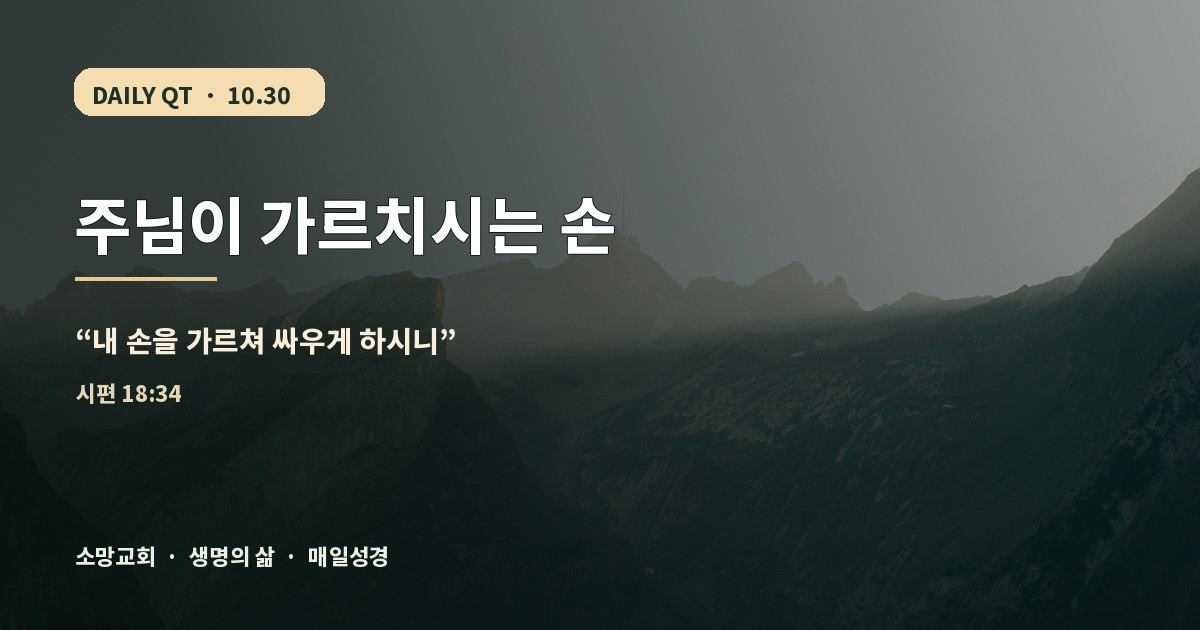
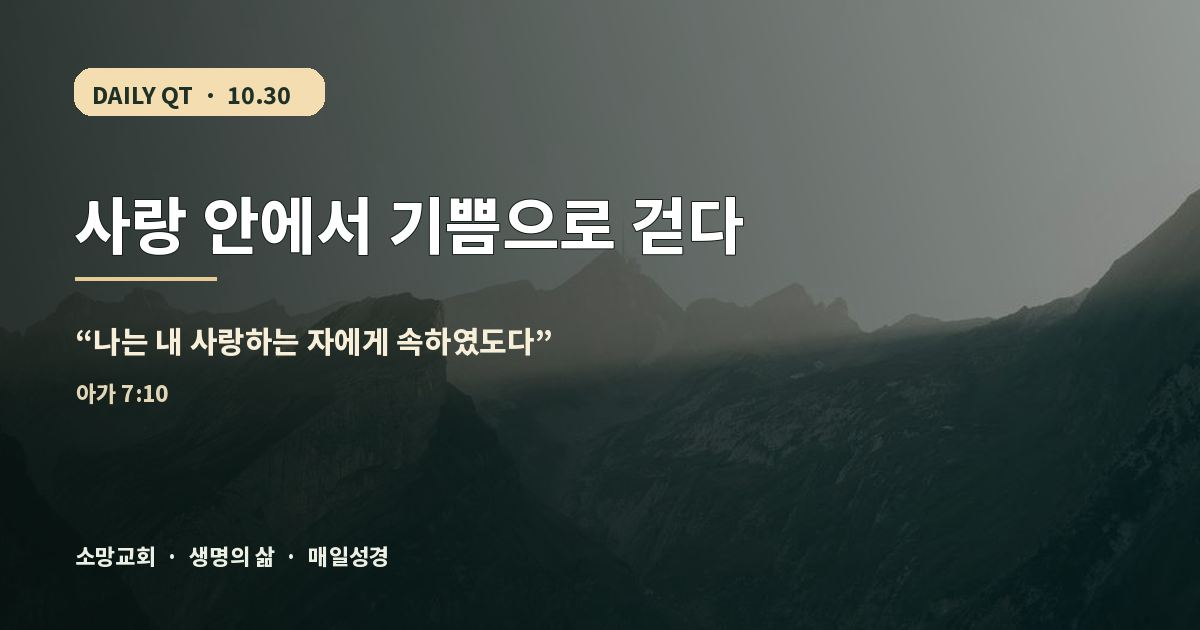
Bible QT 2026-10-30

Changed region(s): [[0.0617, 0.3016, 0.6167, 0.6333], [0.4933, 0.2714, 1.0, 0.573], [0.0617, 0.6032, 0.1542, 0.6635]]

diff --git a/archive/index.html b/archive/index.html
@@ -1,1 +1,1 @@
-<!doctype html><html lang="ko"><head><meta charset="utf-8"><meta name="viewport" content="width=device-width,initial-scale=1"><title>매일매일 큐티 아카이브</title><link rel="stylesheet" href="../assets/site.css"></head><body><main><header class="hero"><div class="hero-inner"><p class="eyebrow">DAILY DEVOTIONAL ARCHIVE</p><h1>지난 큐티</h1><p class="intro">날짜별로 보관된 매일매일 큐티를 다시 읽습니다.</p></div></header><div class="content"><article class="letter"><h2>2026년 10월</h2><p><a class="bible-link" href="2026-10-30/">2026년 10월 30일 금요일 — 말씀 앞에 겸손히, 사랑 안에 기쁘게</a></p><p><a class="bible-link" href="2026-10-29/">2026년 10월 29일 목요일 — 주님이 밝히시는 등불</a></p><p><a class="bible-link" href="2026-10-28/">2026년 10월 28일 수요일 — 나의 힘이신 여호와</a></p><p><a class="bible-link" href="2026-10-27/">2026년 10월 27일 화요일 — 주님의 얼굴로 만족하는 삶</a></p><p><a class="bible-link" href="2026-10-26/">2026년 10월 26일 월요일 — 주님께 피할 때, 생명의 길</a></p><p><a class="bible-link" href="2026-10-24/">2026년 10월 24일 토요일 — 기다림 속에 자라는 사랑</a></p><p><a class="bible-link" href="2026-10-23/">2026년 10월 23일 금요일 — 안개 같은 인생, 주의 뜻을 따르다</a></p><p><a class="bible-link" href="2026-10-22/">2026년 10월 22일 목요일 — 은혜를 기억하고 주께 가까이</a></p><p><a class="bible-link" href="2026-10-21/">2026년 10월 21일 수요일 — 화평의 지혜, 기쁨의 헌신</a></p><p><a class="bible-link" href="2026-10-20/">2026년 10월 20일 화요일 — 말씀으로 세우고, 말로 살리다</a></p><p><a class="bible-link" href="2026-10-19/">2026년 10월 19일 월요일 — 믿음은 삶으로 드러납니다</a></p><p><a class="bible-link" href="2026-10-17/">2026년 10월 17일 토요일 — 듣고 행하는 믿음</a></p><p><a class="bible-link" href="2026-10-16/">2026년 10월 16일 금요일 — 때가 되면 속히 이루시는 주님</a></p><p><a class="bible-link" href="2026-10-15/">2026년 10월 15일 목요일 — 일어나 빛을 발하라</a></p><p><a class="bible-link" href="2026-10-14/">2026년 10월 14일 수요일 — 누가 우리의 왕인가</a></p><p><a class="bible-link" href="2026-10-13/">2026년 10월 13일 화요일 — 정의와 평강의 길</a></p><p><a class="bible-link" href="2026-10-12/">2026년 10월 12일 월요일 — 예배하는 세대를 위하여</a></p><p><a class="bible-link" href="2026-10-10/">2026년 10월 10일 토요일 — 심판의 자리에서 예배의 자리로</a></p><p><a class="bible-link" href="2026-10-09/">2026년 10월 9일 금요일 — 물 댄 동산 같겠고</a></p><p><a class="bible-link" href="2026-10-08/">2026년 10월 8일 목요일 — 겸손한 자에게 임하는 평강</a></p><p><a class="bible-link" href="2026-10-07/">2026년 10월 7일 수요일 — 오직 주를 의뢰하는 자</a></p><p><a class="bible-link" href="2026-10-06/">2026년 10월 6일 화요일 — 만민이 기도하는 집</a></p><p><a class="bible-link" href="2026-10-05/">2026년 10월 5일 월요일 — 여호와께서 함께하지 않으시니</a></p><p><a class="bible-link" href="2026-10-03/">2026년 10월 3일 토요일 — 어디로 가든지 이기게 하시니라</a></p><p><a class="bible-link" href="2026-10-02/">2026년 10월 2일 금요일 — 값없이 와서 먹고 마시라</a></p><p><a class="bible-link" href="2026-10-01/">2026년 10월 1일 목요일 — 너를 칠 무기가 쓸모없을 것이라</a></p><h2>2026년 9월</h2><p><a class="bible-link" href="2026-09-30/">2026년 9월 30일 수요일 — 화평의 언약은 흔들리지 아니하리라</a></p><p><a class="bible-link" href="2026-09-29/">2026년 9월 29일 화요일 — 그가 찔림은 우리의 허물 때문이요</a></p><p><a class="bible-link" href="2026-09-28/">2026년 9월 28일 월요일 — 그 크신 인자하심을 따라</a></p><p><a class="bible-link" href="2026-09-26/">2026년 9월 26일 토요일 — 여호와는 우리와 함께하시느니라</a></p><p><a class="bible-link" href="2026-09-25/">2026년 9월 25일 금요일 — 네 하나님이 통치하신다</a></p><p><a class="bible-link" href="2026-09-24/">2026년 9월 24일 목요일 — 사람을 두려워하지 않는 온전한 신뢰</a></p><p><a class="bible-link" href="2026-09-23/">2026년 9월 23일 수요일 — 광야를 에덴 같게 하시는 위로</a></p><p><a class="bible-link" href="2026-09-22/">2026년 9월 22일 화요일 — 아침마다 깨우치시는 은혜의 음성</a></p><p><a class="bible-link" href="2026-09-21/">2026년 9월 21일 월요일 — 믿음의 눈으로 취하는 약속의 땅</a></p><p><a class="bible-link" href="2026-09-19/">2026년 9월 19일 토요일 — 담대함으로 서는 믿음의 공동체</a></p><p><a class="bible-link" href="2026-09-18/">2026년 9월 18일 금요일 — 손바닥에 새기신 영원한 사랑</a></p><p><a class="bible-link" href="2026-09-17/">2026년 9월 17일 목요일 — 여호와께서 함께하시니 점점 강성하여 가니라</a></p><p><a class="bible-link" href="2026-09-16/">2026년 9월 16일 수요일 — 마땅히 행할 길로 인도하시는 하나님</a></p><p><a class="bible-link" href="2026-09-15/">2026년 9월 15일 화요일 — 고난의 풀무에서 택하신 은혜</a></p><p><a class="bible-link" href="2026-09-14/">2026년 9월 14일 월요일 — 믿음의 간구와 온유한 순종</a></p><p><a class="bible-link" href="2026-09-11/">2026년 9월 11일 금요일 — 주의 법을 사랑하는 자의 큰 평안</a></p><p><a class="bible-link" href="2026-09-10/">2026년 9월 10일 목요일 — 가까이 계시는 주님, 진리의 말씀</a></p><p><a class="bible-link" href="2026-09-09/">2026년 9월 9일 수요일 — 순금보다 더 사랑하는 말씀의 길</a></p><p><a class="bible-link" href="2026-09-08/">2026년 9월 8일 화요일 — 내 발의 등이요 내 길의 빛이 되는 말씀</a></p><p><a class="bible-link" href="2026-09-07/">2026년 9월 7일 월요일 — 말씀의 맛을 다시 기억하는 아침</a></p><p><a class="bible-link" href="2026-09-05/">2026년 9월 5일 토요일 — 고난으로 배운 주의 율례, 구름 기둥 행진과 순종</a></p><p><a class="bible-link" href="2026-09-04/">2026년 9월 4일 금요일 — 구속의 은혜, 고난을 이기는 말씀과 믿음의 유산</a></p><p><a class="bible-link" href="2026-09-03/">2026년 9월 3일 목요일 — 거룩한 구별, 수치에서 건지시는 말씀</a></p><p><a class="bible-link" href="2026-09-01/">2026년 9월 1일 화요일 — 광야의 새 길, 복되고 정결한 삶</a></p><h2>2026년 8월</h2><p><a class="bible-link" href="2026-08-31/">2026년 8월 31일 월요일 — 여호와 삼마, 나팔 소리를 청종하라</a></p><p><a class="bible-link" href="2026-08-29/">2026년 8월 29일 토요일 — 구름 기둥의 인도, 여호와의 열심</a></p><p><a class="bible-link" href="2026-08-28/">2026년 8월 28일 금요일 — 공평과 포용, 하나님의 명예를 구함</a></p><p><a class="bible-link" href="2026-08-27/">2026년 8월 27일 목요일 — 침묵으로 지키는 믿음, 생수의 강</a></p><p><a class="bible-link" href="2026-08-26/">2026년 8월 26일 수요일 — 정결한 헌신, 거룩한 대로의 기쁨</a></p><p><a class="bible-link" href="2026-08-25/">2026년 8월 25일 화요일 — 하나님께 더 가까이, 말씀하시는 임재</a></p><p><a class="bible-link" href="2026-08-24/">2026년 8월 24일 월요일 — 정직한 삶, 아름다운 왕의 통치</a></p><p><a class="bible-link" href="2026-08-22/">2026년 8월 22일 토요일 — 거룩한 헌신, 물러섬 없는 은혜</a></p><p><a class="bible-link" href="2026-08-21/">2026년 8월 21일 금요일 — 지명하여 부르신 은혜의 바른길</a></p><p><a class="bible-link" href="2026-08-20/">2026년 8월 20일 목요일 — 정결한 제단에서 주만 의지하리</a></p><p><a class="bible-link" href="2026-08-19/">2026년 8월 19일 수요일 — 겸손히 머무는 거룩한 영광</a></p><p><a class="bible-link" href="2026-08-18/">2026년 8월 18일 화요일 — 열심을 넘어 진심으로</a></p><p><a class="bible-link" href="2026-08-17/">2026년 8월 17일 월요일 — 공의의 줄과 정의의 추</a></p><p><a class="bible-link" href="2026-08-16/">2026년 8월 16일 일요일 — 영화로운 면류관</a></p><p><a class="bible-link" href="2026-08-15/">2026년 8월 15일 토요일 — 새로운 포도원과 회복의 소망</a></p><p><a class="bible-link" href="2026-08-14/">2026년 8월 14일 금요일 — 소망의 찬양과 확신의 기도</a></p><p><a class="bible-link" href="2026-08-13/">2026년 8월 13일 목요일 — 하나님이 예비하신 진실과 회복의 잔치</a></p><p><a class="bible-link" href="../">최신 QT로 돌아가기</a></p></article></div></main></body></html>
+<!doctype html><html lang="ko"><head><meta charset="utf-8"><meta name="viewport" content="width=device-width,initial-scale=1"><title>매일매일 큐티 아카이브</title><link rel="stylesheet" href="../assets/site.css"></head><body><main><header class="hero"><div class="hero-inner"><p class="eyebrow">DAILY DEVOTIONAL ARCHIVE</p><h1>지난 큐티</h1><p class="intro">날짜별로 보관된 매일매일 큐티를 다시 읽습니다.</p></div></header><div class="content"><article class="letter"><h2>2026년 10월</h2><p><a class="bible-link" href="2026-10-30/">2026년 10월 30일 금요일 — 사랑 안에서 기쁨으로 걷다</a></p><p><a class="bible-link" href="2026-10-29/">2026년 10월 29일 목요일 — 주님이 밝히시는 등불</a></p><p><a class="bible-link" href="2026-10-28/">2026년 10월 28일 수요일 — 나의 힘이신 여호와</a></p><p><a class="bible-link" href="2026-10-27/">2026년 10월 27일 화요일 — 주님의 얼굴로 만족하는 삶</a></p><p><a class="bible-link" href="2026-10-26/">2026년 10월 26일 월요일 — 주님께 피할 때, 생명의 길</a></p><p><a class="bible-link" href="2026-10-24/">2026년 10월 24일 토요일 — 기다림 속에 자라는 사랑</a></p><p><a class="bible-link" href="2026-10-23/">2026년 10월 23일 금요일 — 안개 같은 인생, 주의 뜻을 따르다</a></p><p><a class="bible-link" href="2026-10-22/">2026년 10월 22일 목요일 — 은혜를 기억하고 주께 가까이</a></p><p><a class="bible-link" href="2026-10-21/">2026년 10월 21일 수요일 — 화평의 지혜, 기쁨의 헌신</a></p><p><a class="bible-link" href="2026-10-20/">2026년 10월 20일 화요일 — 말씀으로 세우고, 말로 살리다</a></p><p><a class="bible-link" href="2026-10-19/">2026년 10월 19일 월요일 — 믿음은 삶으로 드러납니다</a></p><p><a class="bible-link" href="2026-10-17/">2026년 10월 17일 토요일 — 듣고 행하는 믿음</a></p><p><a class="bible-link" href="2026-10-16/">2026년 10월 16일 금요일 — 때가 되면 속히 이루시는 주님</a></p><p><a class="bible-link" href="2026-10-15/">2026년 10월 15일 목요일 — 일어나 빛을 발하라</a></p><p><a class="bible-link" href="2026-10-14/">2026년 10월 14일 수요일 — 누가 우리의 왕인가</a></p><p><a class="bible-link" href="2026-10-13/">2026년 10월 13일 화요일 — 정의와 평강의 길</a></p><p><a class="bible-link" href="2026-10-12/">2026년 10월 12일 월요일 — 예배하는 세대를 위하여</a></p><p><a class="bible-link" href="2026-10-10/">2026년 10월 10일 토요일 — 심판의 자리에서 예배의 자리로</a></p><p><a class="bible-link" href="2026-10-09/">2026년 10월 9일 금요일 — 물 댄 동산 같겠고</a></p><p><a class="bible-link" href="2026-10-08/">2026년 10월 8일 목요일 — 겸손한 자에게 임하는 평강</a></p><p><a class="bible-link" href="2026-10-07/">2026년 10월 7일 수요일 — 오직 주를 의뢰하는 자</a></p><p><a class="bible-link" href="2026-10-06/">2026년 10월 6일 화요일 — 만민이 기도하는 집</a></p><p><a class="bible-link" href="2026-10-05/">2026년 10월 5일 월요일 — 여호와께서 함께하지 않으시니</a></p><p><a class="bible-link" href="2026-10-03/">2026년 10월 3일 토요일 — 어디로 가든지 이기게 하시니라</a></p><p><a class="bible-link" href="2026-10-02/">2026년 10월 2일 금요일 — 값없이 와서 먹고 마시라</a></p><p><a class="bible-link" href="2026-10-01/">2026년 10월 1일 목요일 — 너를 칠 무기가 쓸모없을 것이라</a></p><h2>2026년 9월</h2><p><a class="bible-link" href="2026-09-30/">2026년 9월 30일 수요일 — 화평의 언약은 흔들리지 아니하리라</a></p><p><a class="bible-link" href="2026-09-29/">2026년 9월 29일 화요일 — 그가 찔림은 우리의 허물 때문이요</a></p><p><a class="bible-link" href="2026-09-28/">2026년 9월 28일 월요일 — 그 크신 인자하심을 따라</a></p><p><a class="bible-link" href="2026-09-26/">2026년 9월 26일 토요일 — 여호와는 우리와 함께하시느니라</a></p><p><a class="bible-link" href="2026-09-25/">2026년 9월 25일 금요일 — 네 하나님이 통치하신다</a></p><p><a class="bible-link" href="2026-09-24/">2026년 9월 24일 목요일 — 사람을 두려워하지 않는 온전한 신뢰</a></p><p><a class="bible-link" href="2026-09-23/">2026년 9월 23일 수요일 — 광야를 에덴 같게 하시는 위로</a></p><p><a class="bible-link" href="2026-09-22/">2026년 9월 22일 화요일 — 아침마다 깨우치시는 은혜의 음성</a></p><p><a class="bible-link" href="2026-09-21/">2026년 9월 21일 월요일 — 믿음의 눈으로 취하는 약속의 땅</a></p><p><a class="bible-link" href="2026-09-19/">2026년 9월 19일 토요일 — 담대함으로 서는 믿음의 공동체</a></p><p><a class="bible-link" href="2026-09-18/">2026년 9월 18일 금요일 — 손바닥에 새기신 영원한 사랑</a></p><p><a class="bible-link" href="2026-09-17/">2026년 9월 17일 목요일 — 여호와께서 함께하시니 점점 강성하여 가니라</a></p><p><a class="bible-link" href="2026-09-16/">2026년 9월 16일 수요일 — 마땅히 행할 길로 인도하시는 하나님</a></p><p><a class="bible-link" href="2026-09-15/">2026년 9월 15일 화요일 — 고난의 풀무에서 택하신 은혜</a></p><p><a class="bible-link" href="2026-09-14/">2026년 9월 14일 월요일 — 믿음의 간구와 온유한 순종</a></p><p><a class="bible-link" href="2026-09-11/">2026년 9월 11일 금요일 — 주의 법을 사랑하는 자의 큰 평안</a></p><p><a class="bible-link" href="2026-09-10/">2026년 9월 10일 목요일 — 가까이 계시는 주님, 진리의 말씀</a></p><p><a class="bible-link" href="2026-09-09/">2026년 9월 9일 수요일 — 순금보다 더 사랑하는 말씀의 길</a></p><p><a class="bible-link" href="2026-09-08/">2026년 9월 8일 화요일 — 내 발의 등이요 내 길의 빛이 되는 말씀</a></p><p><a class="bible-link" href="2026-09-07/">2026년 9월 7일 월요일 — 말씀의 맛을 다시 기억하는 아침</a></p><p><a class="bible-link" href="2026-09-05/">2026년 9월 5일 토요일 — 고난으로 배운 주의 율례, 구름 기둥 행진과 순종</a></p><p><a class="bible-link" href="2026-09-04/">2026년 9월 4일 금요일 — 구속의 은혜, 고난을 이기는 말씀과 믿음의 유산</a></p><p><a class="bible-link" href="2026-09-03/">2026년 9월 3일 목요일 — 거룩한 구별, 수치에서 건지시는 말씀</a></p><p><a class="bible-link" href="2026-09-01/">2026년 9월 1일 화요일 — 광야의 새 길, 복되고 정결한 삶</a></p><h2>2026년 8월</h2><p><a class="bible-link" href="2026-08-31/">2026년 8월 31일 월요일 — 여호와 삼마, 나팔 소리를 청종하라</a></p><p><a class="bible-link" href="2026-08-29/">2026년 8월 29일 토요일 — 구름 기둥의 인도, 여호와의 열심</a></p><p><a class="bible-link" href="2026-08-28/">2026년 8월 28일 금요일 — 공평과 포용, 하나님의 명예를 구함</a></p><p><a class="bible-link" href="2026-08-27/">2026년 8월 27일 목요일 — 침묵으로 지키는 믿음, 생수의 강</a></p><p><a class="bible-link" href="2026-08-26/">2026년 8월 26일 수요일 — 정결한 헌신, 거룩한 대로의 기쁨</a></p><p><a class="bible-link" href="2026-08-25/">2026년 8월 25일 화요일 — 하나님께 더 가까이, 말씀하시는 임재</a></p><p><a class="bible-link" href="2026-08-24/">2026년 8월 24일 월요일 — 정직한 삶, 아름다운 왕의 통치</a></p><p><a class="bible-link" href="2026-08-22/">2026년 8월 22일 토요일 — 거룩한 헌신, 물러섬 없는 은혜</a></p><p><a class="bible-link" href="2026-08-21/">2026년 8월 21일 금요일 — 지명하여 부르신 은혜의 바른길</a></p><p><a class="bible-link" href="2026-08-20/">2026년 8월 20일 목요일 — 정결한 제단에서 주만 의지하리</a></p><p><a class="bible-link" href="2026-08-19/">2026년 8월 19일 수요일 — 겸손히 머무는 거룩한 영광</a></p><p><a class="bible-link" href="2026-08-18/">2026년 8월 18일 화요일 — 열심을 넘어 진심으로</a></p><p><a class="bible-link" href="2026-08-17/">2026년 8월 17일 월요일 — 공의의 줄과 정의의 추</a></p><p><a class="bible-link" href="2026-08-16/">2026년 8월 16일 일요일 — 영화로운 면류관</a></p><p><a class="bible-link" href="2026-08-15/">2026년 8월 15일 토요일 — 새로운 포도원과 회복의 소망</a></p><p><a class="bible-link" href="2026-08-14/">2026년 8월 14일 금요일 — 소망의 찬양과 확신의 기도</a></p><p><a class="bible-link" href="2026-08-13/">2026년 8월 13일 목요일 — 하나님이 예비하신 진실과 회복의 잔치</a></p><p><a class="bible-link" href="../">최신 QT로 돌아가기</a></p></article></div></main></body></html>

diff --git a/archive/2026-10-30/kakao-v1.html b/archive/2026-10-30/kakao-v1.html
@@ -2,13 +2,13 @@
 <html lang="ko"><head><meta charset="utf-8"><meta name="viewport" content="width=device-width,initial-scale=1"><meta name="theme-color" content="#17382a">
 <title>매일매일 큐티｜2026년 10월 30일 금요일</title><meta name="description" content="말씀 앞에 겸손히 머물고, 사랑 안에서 기쁨으로 함께 걷습니다.">
 <link rel="canonical" href="https://vidavida1970.github.io/DailyQT/archive/2026-10-30/kakao-v1.html"><link rel="image_src" href="https://vidavida1970.github.io/DailyQT/archive/2026-10-30/assets/thumbnail-v1.jpg"><meta name="thumbnail" content="https://vidavida1970.github.io/DailyQT/archive/2026-10-30/assets/thumbnail-v1.jpg">
-<meta property="og:title" content="매일매일 큐티｜말씀 앞에 겸손히, 사랑 안에 기쁘게"><meta property="og:description" content="2026년 10월 30일｜소망교회·생명의 삶·매일성경"><meta property="og:type" content="website"><meta property="og:locale" content="ko_KR"><meta property="og:url" content="https://vidavida1970.github.io/DailyQT/archive/2026-10-30/kakao-v1.html"><meta property="og:image" content="https://vidavida1970.github.io/DailyQT/archive/2026-10-30/assets/thumbnail-v1.jpg"><meta property="og:image:url" content="https://vidavida1970.github.io/DailyQT/archive/2026-10-30/assets/thumbnail-v1.jpg"><meta property="og:image:secure_url" content="https://vidavida1970.github.io/DailyQT/archive/2026-10-30/assets/thumbnail-v1.jpg"><meta property="og:image:type" content="image/jpeg"><meta property="og:image:width" content="1200"><meta property="og:image:height" content="630"><meta property="og:image:alt" content="매일매일 큐티 2026년 10월 30일, 말씀 앞에 겸손히, 사랑 안에 기쁘게">
-<meta property="article:published_time" content="2026-10-30T00:00:00+09:00"><meta property="article:section" content="오늘의 큐티"><meta name="twitter:card" content="summary_large_image"><meta name="twitter:title" content="매일매일 큐티｜말씀 앞에 겸손히, 사랑 안에 기쁘게"><meta name="twitter:description" content="말씀 앞에 겸손히 머물고, 사랑 안에서 기쁨으로 함께 걷습니다."><meta name="twitter:image" content="https://vidavida1970.github.io/DailyQT/archive/2026-10-30/assets/thumbnail-v1.jpg"><meta name="twitter:url" content="https://vidavida1970.github.io/DailyQT/archive/2026-10-30/kakao-v1.html">
+<meta property="og:title" content="매일매일 큐티｜사랑 안에서 기쁨으로 걷다"><meta property="og:description" content="2026년 10월 30일｜소망교회·생명의 삶·매일성경"><meta property="og:type" content="website"><meta property="og:locale" content="ko_KR"><meta property="og:url" content="https://vidavida1970.github.io/DailyQT/archive/2026-10-30/kakao-v1.html"><meta property="og:image" content="https://vidavida1970.github.io/DailyQT/archive/2026-10-30/assets/thumbnail-v1.jpg"><meta property="og:image:url" content="https://vidavida1970.github.io/DailyQT/archive/2026-10-30/assets/thumbnail-v1.jpg"><meta property="og:image:secure_url" content="https://vidavida1970.github.io/DailyQT/archive/2026-10-30/assets/thumbnail-v1.jpg"><meta property="og:image:type" content="image/jpeg"><meta property="og:image:width" content="1200"><meta property="og:image:height" content="630"><meta property="og:image:alt" content="매일매일 큐티 2026년 10월 30일, 사랑 안에서 기쁨으로 걷다">
+<meta property="article:published_time" content="2026-10-30T00:00:00+09:00"><meta property="article:section" content="오늘의 큐티"><meta name="twitter:card" content="summary_large_image"><meta name="twitter:title" content="매일매일 큐티｜사랑 안에서 기쁨으로 걷다"><meta name="twitter:description" content="말씀 앞에 겸손히 머물고, 사랑 안에서 기쁨으로 함께 걷습니다."><meta name="twitter:image" content="https://vidavida1970.github.io/DailyQT/archive/2026-10-30/assets/thumbnail-v1.jpg"><meta name="twitter:url" content="https://vidavida1970.github.io/DailyQT/archive/2026-10-30/kakao-v1.html">
 <link rel="stylesheet" href="../../assets/site.css"><style>.hero{position:relative;min-height:540px;background:#172019 url("https://vidavida1970.github.io/DailyQT/archive/2026-10-30/assets/background.jpg") center 64%/cover no-repeat}.hero::before{content:"";position:absolute;inset:0;background:linear-gradient(90deg,rgba(8,15,12,.91),rgba(8,15,12,.68) 56%,rgba(8,15,12,.30))}.hero-inner{position:relative;z-index:1}.today-word{max-width:760px;margin:26px 0 0;padding:18px 22px;border-left:4px solid #d8c89c;border-radius:0 12px 12px 0;background:rgba(255,255,255,.13);font-size:1.08rem}.today-word strong{display:block;color:#f4ddb0}.source-note{margin-top:18px;color:#718078;font-size:.83rem}.notice{padding:18px 20px;border:1px solid #e6d9bb;border-radius:14px;background:#fbf8ef;color:#49544a;line-height:1.8}@media(max-width:640px){.hero{min-height:510px;padding:62px 20px 58px}.date{display:block}.date span{display:block;margin-bottom:8px}}</style></head><body><main>
-<header class="hero"><div class="hero-inner"><p class="eyebrow">DAILY DEVOTIONAL LETTER · NO. 1030</p><h1>매일매일 큐티</h1><p class="date"><span>FRIDAY · 30 OCTOBER 2026</span>2026년 10월 30일 금요일</p><p class="intro">말씀 앞에 겸손히 머물고, 사랑 안에서 기쁨으로 함께 걷습니다.</p><div class="today-word"><strong>오늘의 말씀 · 이사야 66:2</strong>“마음이 가난하고 심령에 통회하며 내 말을 듣고 떠는 자”</div><p class="intro">키워드 · 겸손 · 사랑 · 기쁨</p></div></header>
+<header class="hero"><div class="hero-inner"><p class="eyebrow">DAILY DEVOTIONAL LETTER · NO. 1030</p><h1>매일매일 큐티</h1><p class="date"><span>FRIDAY · 30 OCTOBER 2026</span>2026년 10월 30일 금요일</p><p class="intro">말씀 앞에 겸손히 머물고, 사랑 안에서 기쁨으로 함께 걷습니다.</p><div class="today-word"><strong>오늘의 말씀 · 아가 7:10</strong>“나는 내 사랑하는 자에게 속하였도다”</div><p class="intro">키워드 · 겸손 · 사랑 · 기쁨</p></div></header>
 <div class="content"><nav class="top-links"><a href="../../archive/">지난 QT 보기</a><a href="../../source/2026-10-30.md">오늘 원문</a></nav>
 <aside class="toc"><span>오늘의 큐티</span><a href="#s01">01 소망교회 새벽기도</a><a href="#s02">02 CGN 생명의 삶</a><a href="#s03">03 성서유니온 매일성경</a></aside>
-<section class="letter"><h2>오늘의 본문</h2><p>이사야 66:15–24 · 아가 7:1–13</p><p><a class="bible-link" href="https://www.godpia.com/read/reading.asp?chap=66&amp;goSec=gae_isa_66_2&amp;sec=2&amp;ver=gae&amp;vol=isa" target="_blank" rel="noopener noreferrer">대표 구절 · 이사야 66:2 GODpia에서 읽기 ↗</a></p></section>
+<section class="letter"><h2>오늘의 본문</h2><p>이사야 66:15–24 · 아가 7:1–13</p><p><a class="bible-link" href="https://www.godpia.com/read/reading.asp?chap=7&amp;goSec=gae_sng_7_10&amp;sec=10&amp;ver=gae&amp;vol=sng" target="_blank" rel="noopener noreferrer">대표 구절 · 아가 7:10 GODpia에서 읽기 ↗</a></p></section>
 <article id="s01" class="letter"><div class="section-head"><span>01</span><div><p>소망교회 새벽기도</p><h2>이사야 강해(110)</h2><strong>이사야 66:15–24 · 김경진 목사</strong><a class="bible-link" href="https://www.godpia.com/read/reading.asp?chap=66&amp;goSec=gae_isa_66_15&amp;sec=15&amp;ver=gae&amp;vol=isa" target="_blank" rel="noopener noreferrer">GODpia에서 이사야 66장 읽기 ↗</a></div></div>
 <section><h3>본문 묵상</h3><ul><li>이사야서는 주님의 심판과 구원을 함께 바라보며, 모든 민족이 주님께 나아와 예배할 날을 그립니다.</li><li>하나님은 새 하늘과 새 땅을 약속하시며, 그분의 이름과 영광이 이어질 것을 선언하십니다.</li><li>영상 제목에서 날짜·본문·설교자를 확인했습니다. 설교 자막은 확인되지 않아 본문 흐름을 중심으로 묵상했습니다.</li></ul></section>
 <div class="two-col"><section><h3>묵상 질문</h3><p>내가 오늘 말씀 앞에 내려놓고 겸손히 들어야 할 것은 무엇인가요?</p></section><section><h3>오늘의 적용</h3><p>하나님의 말씀을 먼저 듣고, 주님이 기뻐하실 작은 순종을 실천하겠습니다.</p></section></div><blockquote><span>짧은 기도</span>주님, 겸손히 주님의 말씀을 듣고 새롭게 하실 일을 바라보게 하소서. 아멘.</blockquote>

diff --git a/archive/2026-10-30/index.html b/archive/2026-10-30/index.html
@@ -2,13 +2,13 @@
 <html lang="ko"><head><meta charset="utf-8"><meta name="viewport" content="width=device-width,initial-scale=1"><meta name="theme-color" content="#17382a">
 <title>매일매일 큐티｜2026년 10월 30일 금요일</title><meta name="description" content="말씀 앞에 겸손히 머물고, 사랑 안에서 기쁨으로 함께 걷습니다.">
 <link rel="canonical" href="https://vidavida1970.github.io/DailyQT/archive/2026-10-30/"><link rel="image_src" href="https://vidavida1970.github.io/DailyQT/archive/2026-10-30/assets/thumbnail-v1.jpg"><meta name="thumbnail" content="https://vidavida1970.github.io/DailyQT/archive/2026-10-30/assets/thumbnail-v1.jpg">
-<meta property="og:title" content="매일매일 큐티｜말씀 앞에 겸손히, 사랑 안에 기쁘게"><meta property="og:description" content="2026년 10월 30일｜소망교회·생명의 삶·매일성경"><meta property="og:type" content="article"><meta property="og:locale" content="ko_KR"><meta property="og:url" content="https://vidavida1970.github.io/DailyQT/archive/2026-10-30/"><meta property="og:image" content="https://vidavida1970.github.io/DailyQT/archive/2026-10-30/assets/thumbnail-v1.jpg"><meta property="og:image:url" content="https://vidavida1970.github.io/DailyQT/archive/2026-10-30/assets/thumbnail-v1.jpg"><meta property="og:image:secure_url" content="https://vidavida1970.github.io/DailyQT/archive/2026-10-30/assets/thumbnail-v1.jpg"><meta property="og:image:type" content="image/jpeg"><meta property="og:image:width" content="1200"><meta property="og:image:height" content="630"><meta property="og:image:alt" content="매일매일 큐티 2026년 10월 30일, 말씀 앞에 겸손히, 사랑 안에 기쁘게">
-<meta property="article:published_time" content="2026-10-30T00:00:00+09:00"><meta property="article:section" content="오늘의 큐티"><meta name="twitter:card" content="summary_large_image"><meta name="twitter:title" content="매일매일 큐티｜말씀 앞에 겸손히, 사랑 안에 기쁘게"><meta name="twitter:description" content="말씀 앞에 겸손히 머물고, 사랑 안에서 기쁨으로 함께 걷습니다."><meta name="twitter:image" content="https://vidavida1970.github.io/DailyQT/archive/2026-10-30/assets/thumbnail-v1.jpg"><meta name="twitter:url" content="https://vidavida1970.github.io/DailyQT/archive/2026-10-30/">
+<meta property="og:title" content="매일매일 큐티｜사랑 안에서 기쁨으로 걷다"><meta property="og:description" content="2026년 10월 30일｜소망교회·생명의 삶·매일성경"><meta property="og:type" content="article"><meta property="og:locale" content="ko_KR"><meta property="og:url" content="https://vidavida1970.github.io/DailyQT/archive/2026-10-30/"><meta property="og:image" content="https://vidavida1970.github.io/DailyQT/archive/2026-10-30/assets/thumbnail-v1.jpg"><meta property="og:image:url" content="https://vidavida1970.github.io/DailyQT/archive/2026-10-30/assets/thumbnail-v1.jpg"><meta property="og:image:secure_url" content="https://vidavida1970.github.io/DailyQT/archive/2026-10-30/assets/thumbnail-v1.jpg"><meta property="og:image:type" content="image/jpeg"><meta property="og:image:width" content="1200"><meta property="og:image:height" content="630"><meta property="og:image:alt" content="매일매일 큐티 2026년 10월 30일, 사랑 안에서 기쁨으로 걷다">
+<meta property="article:published_time" content="2026-10-30T00:00:00+09:00"><meta property="article:section" content="오늘의 큐티"><meta name="twitter:card" content="summary_large_image"><meta name="twitter:title" content="매일매일 큐티｜사랑 안에서 기쁨으로 걷다"><meta name="twitter:description" content="말씀 앞에 겸손히 머물고, 사랑 안에서 기쁨으로 함께 걷습니다."><meta name="twitter:image" content="https://vidavida1970.github.io/DailyQT/archive/2026-10-30/assets/thumbnail-v1.jpg"><meta name="twitter:url" content="https://vidavida1970.github.io/DailyQT/archive/2026-10-30/">
 <link rel="stylesheet" href="../../assets/site.css"><style>.hero{position:relative;min-height:540px;background:#172019 url("https://vidavida1970.github.io/DailyQT/archive/2026-10-30/assets/background.jpg") center 64%/cover no-repeat}.hero::before{content:"";position:absolute;inset:0;background:linear-gradient(90deg,rgba(8,15,12,.91),rgba(8,15,12,.68) 56%,rgba(8,15,12,.30))}.hero-inner{position:relative;z-index:1}.today-word{max-width:760px;margin:26px 0 0;padding:18px 22px;border-left:4px solid #d8c89c;border-radius:0 12px 12px 0;background:rgba(255,255,255,.13);font-size:1.08rem}.today-word strong{display:block;color:#f4ddb0}.source-note{margin-top:18px;color:#718078;font-size:.83rem}.notice{padding:18px 20px;border:1px solid #e6d9bb;border-radius:14px;background:#fbf8ef;color:#49544a;line-height:1.8}@media(max-width:640px){.hero{min-height:510px;padding:62px 20px 58px}.date{display:block}.date span{display:block;margin-bottom:8px}}</style></head><body><main>
-<header class="hero"><div class="hero-inner"><p class="eyebrow">DAILY DEVOTIONAL LETTER · NO. 1030</p><h1>매일매일 큐티</h1><p class="date"><span>FRIDAY · 30 OCTOBER 2026</span>2026년 10월 30일 금요일</p><p class="intro">말씀 앞에 겸손히 머물고, 사랑 안에서 기쁨으로 함께 걷습니다.</p><div class="today-word"><strong>오늘의 말씀 · 이사야 66:2</strong>“마음이 가난하고 심령에 통회하며 내 말을 듣고 떠는 자”</div><p class="intro">키워드 · 겸손 · 사랑 · 기쁨</p></div></header>
+<header class="hero"><div class="hero-inner"><p class="eyebrow">DAILY DEVOTIONAL LETTER · NO. 1030</p><h1>매일매일 큐티</h1><p class="date"><span>FRIDAY · 30 OCTOBER 2026</span>2026년 10월 30일 금요일</p><p class="intro">말씀 앞에 겸손히 머물고, 사랑 안에서 기쁨으로 함께 걷습니다.</p><div class="today-word"><strong>오늘의 말씀 · 아가 7:10</strong>“나는 내 사랑하는 자에게 속하였도다”</div><p class="intro">키워드 · 겸손 · 사랑 · 기쁨</p></div></header>
 <div class="content"><nav class="top-links"><a href="../../archive/">지난 QT 보기</a><a href="../../source/2026-10-30.md">오늘 원문</a></nav>
 <aside class="toc"><span>오늘의 큐티</span><a href="#s01">01 소망교회 새벽기도</a><a href="#s02">02 CGN 생명의 삶</a><a href="#s03">03 성서유니온 매일성경</a></aside>
-<section class="letter"><h2>오늘의 본문</h2><p>이사야 66:15–24 · 아가 7:1–13</p><p><a class="bible-link" href="https://www.godpia.com/read/reading.asp?chap=66&amp;goSec=gae_isa_66_2&amp;sec=2&amp;ver=gae&amp;vol=isa" target="_blank" rel="noopener noreferrer">대표 구절 · 이사야 66:2 GODpia에서 읽기 ↗</a></p></section>
+<section class="letter"><h2>오늘의 본문</h2><p>이사야 66:15–24 · 아가 7:1–13</p><p><a class="bible-link" href="https://www.godpia.com/read/reading.asp?chap=7&amp;goSec=gae_sng_7_10&amp;sec=10&amp;ver=gae&amp;vol=sng" target="_blank" rel="noopener noreferrer">대표 구절 · 아가 7:10 GODpia에서 읽기 ↗</a></p></section>
 <article id="s01" class="letter"><div class="section-head"><span>01</span><div><p>소망교회 새벽기도</p><h2>이사야 강해(110)</h2><strong>이사야 66:15–24 · 김경진 목사</strong><a class="bible-link" href="https://www.godpia.com/read/reading.asp?chap=66&amp;goSec=gae_isa_66_15&amp;sec=15&amp;ver=gae&amp;vol=isa" target="_blank" rel="noopener noreferrer">GODpia에서 이사야 66장 읽기 ↗</a></div></div>
 <section><h3>본문 묵상</h3><ul><li>이사야서는 주님의 심판과 구원을 함께 바라보며, 모든 민족이 주님께 나아와 예배할 날을 그립니다.</li><li>하나님은 새 하늘과 새 땅을 약속하시며, 그분의 이름과 영광이 이어질 것을 선언하십니다.</li><li>영상 제목에서 날짜·본문·설교자를 확인했습니다. 설교 자막은 확인되지 않아 본문 흐름을 중심으로 묵상했습니다.</li></ul></section>
 <div class="two-col"><section><h3>묵상 질문</h3><p>내가 오늘 말씀 앞에 내려놓고 겸손히 들어야 할 것은 무엇인가요?</p></section><section><h3>오늘의 적용</h3><p>하나님의 말씀을 먼저 듣고, 주님이 기뻐하실 작은 순종을 실천하겠습니다.</p></section></div><blockquote><span>짧은 기도</span>주님, 겸손히 주님의 말씀을 듣고 새롭게 하실 일을 바라보게 하소서. 아멘.</blockquote>

diff --git a/index.html b/index.html
@@ -1,1 +1,1 @@
-<!doctype html><html lang="ko"><head><meta charset="utf-8"><meta name="viewport" content="width=device-width,initial-scale=1"><title>매일매일 큐티｜2026년 10월 30일</title><meta name="description" content="2026년 10월 30일 매일매일 큐티 — 말씀 앞에 겸손히, 사랑 안에 기쁘게"><link rel="canonical" href="https://vidavida1970.github.io/DailyQT/"><link rel="stylesheet" href="assets/site.css"><style>.hero{position:relative;background:#151914 url("archive/2026-10-30/assets/background.jpg") center 48%/cover no-repeat}.hero::before{content:"";position:absolute;inset:0;background:linear-gradient(90deg,rgba(9,15,12,.91),rgba(9,15,12,.64) 58%,rgba(9,15,12,.16))}.hero-inner{position:relative;z-index:1}</style></head><body><main><header class="hero"><div class="hero-inner"><p class="eyebrow">DAILY DEVOTIONAL LETTER · NO. 1030</p><h1>매일매일 큐티</h1><p class="date">2026년 10월 30일 금요일 <span>FRIDAY, OCTOBER 30, 2026</span></p><p class="intro">말씀 앞에 겸손히 머물고, 사랑 안에서 기쁨으로 함께 걷습니다.</p></div></header><div class="content"><article class="letter"><h2>오늘의 큐티</h2><p>이사야 66:2 · 이사야 66:15–24 · 아가 7:1–13</p><p><a class="bible-link" href="archive/2026-10-30/">오늘의 말씀과 영상 2편 읽기 ↗</a></p><p><a class="bible-link" href="archive/">지난 큐티 아카이브 보기 ↗</a></p></article></div></main></body></html>
+<!doctype html><html lang="ko"><head><meta charset="utf-8"><meta name="viewport" content="width=device-width,initial-scale=1"><title>매일매일 큐티｜2026년 10월 30일</title><meta name="description" content="2026년 10월 30일 매일매일 큐티 — 사랑 안에서 기쁨으로 걷다"><link rel="canonical" href="https://vidavida1970.github.io/DailyQT/"><link rel="stylesheet" href="assets/site.css"><style>.hero{position:relative;background:#151914 url("archive/2026-10-30/assets/background.jpg") center 48%/cover no-repeat}.hero::before{content:"";position:absolute;inset:0;background:linear-gradient(90deg,rgba(9,15,12,.91),rgba(9,15,12,.64) 58%,rgba(9,15,12,.16))}.hero-inner{position:relative;z-index:1}</style></head><body><main><header class="hero"><div class="hero-inner"><p class="eyebrow">DAILY DEVOTIONAL LETTER · NO. 1030</p><h1>매일매일 큐티</h1><p class="date">2026년 10월 30일 금요일 <span>FRIDAY, OCTOBER 30, 2026</span></p><p class="intro">말씀 앞에 겸손히 머물고, 사랑 안에서 기쁨으로 함께 걷습니다.</p></div></header><div class="content"><article class="letter"><h2>오늘의 큐티</h2><p>아가 7:10 · 이사야 66:15–24 · 아가 7:1–13</p><p><a class="bible-link" href="archive/2026-10-30/">오늘의 말씀과 영상 2편 읽기 ↗</a></p><p><a class="bible-link" href="archive/">지난 큐티 아카이브 보기 ↗</a></p></article></div></main></body></html>

diff --git a/source/2026-10-30.md b/source/2026-10-30.md
@@ -2,14 +2,14 @@
 
 ## 오늘의 주제
 
-**말씀 앞에 겸손히, 사랑 안에 기쁘게**  \  
+**사랑 안에서 기쁨으로 걷다**  \  
 키워드: 겸손 · 사랑 · 기쁨
 
 말씀 앞에 겸손히 머물고, 사랑 안에서 기쁨으로 함께 걷습니다.
 
 ## 오늘의 대표 구절
 
-> “마음이 가난하고 심령에 통회하며 내 말을 듣고 떠는 자” (이사야 66:2, 개역개정 일부 인용)
+> “나는 내 사랑하는 자에게 속하였도다” (아가 7:10, 개역개정 일부 인용)
 
 ## 공식 콘텐츠 확인
 
